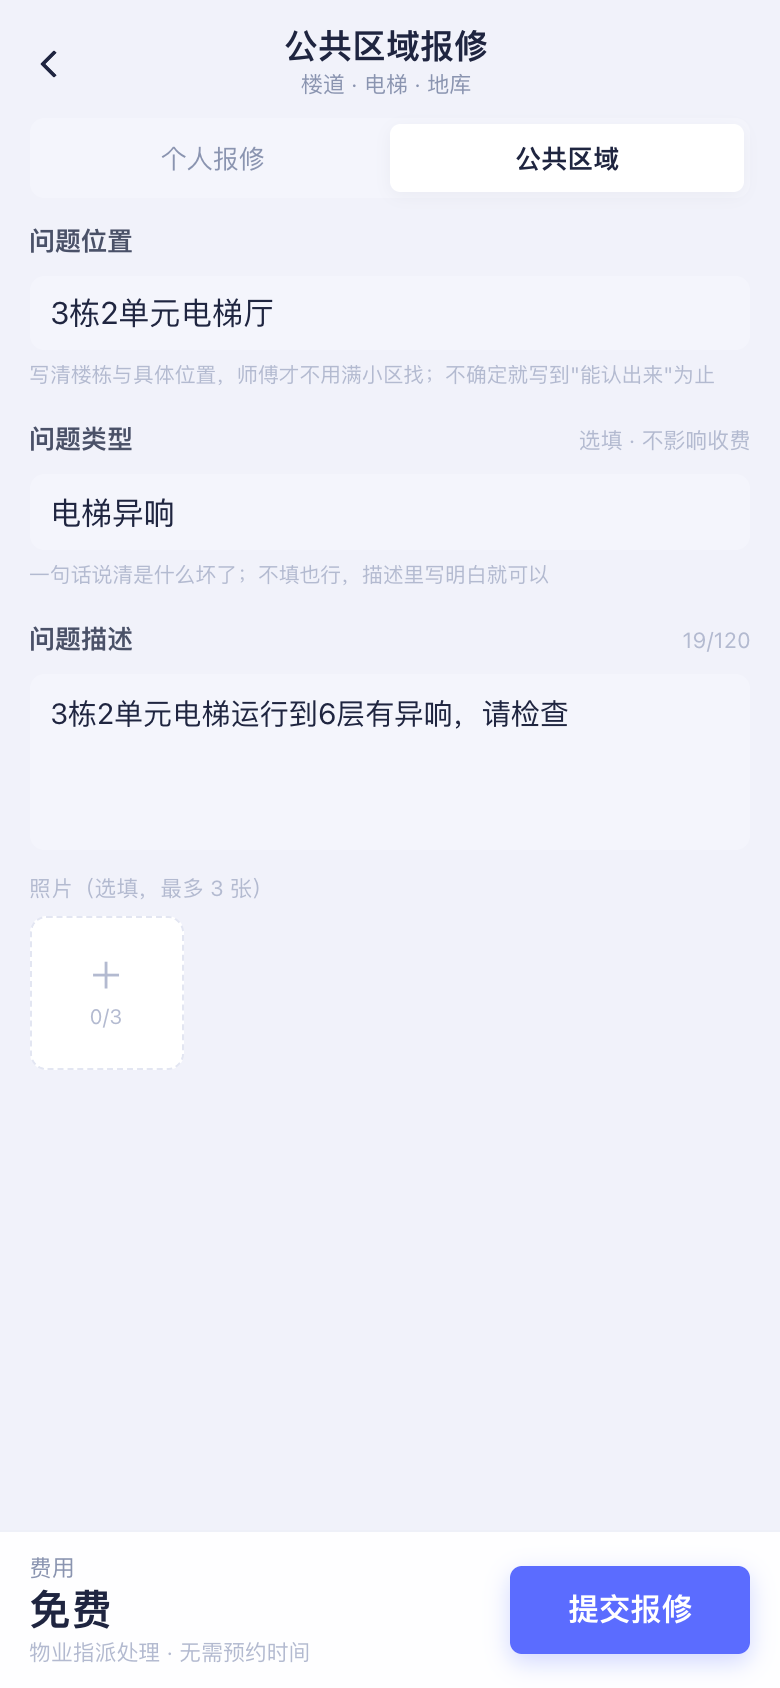
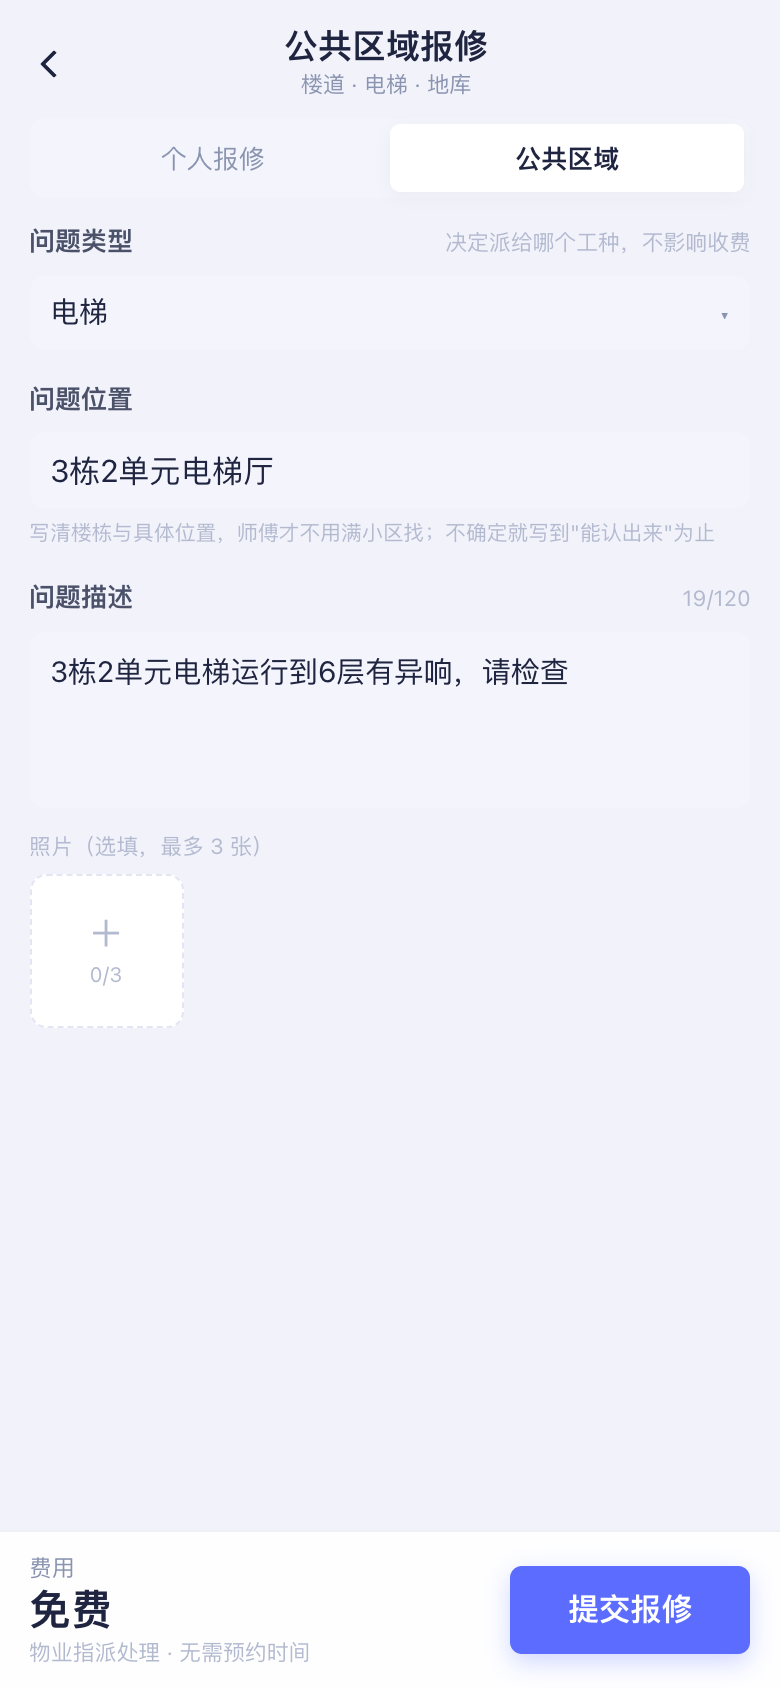
feat(报修): 公共报修的问题类型改下拉（固定 7 项 + 其他手写），位置排第二
上一轮把类型也改成了自由输入框，位置对了但类型错了：**问题类型是派单口径**，
后台 `LABOR_POINT_RULE.weights` 认的是那几个固定值，让业主白手写等于放弃它。
这一轮改成下拉，并把它放到第一位。

字段顺序：**问题类型（下拉）→ 问题位置（输入）→ 问题描述 → 照片**

- 固定 7 项：电梯 / 配电 / 给排水 / 道闸门禁 / 公区照明 / 门窗五金 / 土建 ——
  与后台权重键一一对应，点一下就是标准值；
- 第 8 项「其他（自己写）」→ 展开一个输入框，传业主写的原文，前台受理时归类；
- 类型必选（选「其他」时必须写），未选时提交按钮禁用；
- 位置仍是输入框：空间描述没有边界，列 10 个永远不够。

**服务端不跟着做白名单**：后台代下单、老版本客户端都可能传任意文本，拒掉只会让一笔
真实报修进不来。只保留三条校验（≤20 字 / 空值落「公共设备」/ 不查白名单），
非标准值的影响是 `laborPointWeight()` 落默认 1.0 —— 比丢单好。

顺手改了一处：选「其他」时下拉行与手写框原本显示同一句话，截图里像两个字段；
现在下拉行显示「其他（自己写）」，正文只出现在输入框里。

另：`v-else` 配对问题 ——「个人报修项目」段原来靠 `v-else` 挂在「部位」段后面，
类型段前移之后它会配到「位置」段上（那段不是 v-if），构建直接报错。改成 `v-if="!isPublic"`。

批次: 无
影响: 04-契约, 06-业主端小程序, 02-原型设计
验证: 04 test 287/287 · 06 check:data · build:h5 · smoke dev 101/101 + dist 101/101 · 公共线走查 14/14（api-g-47/47b/48/49）
BREAKING: 无

diff --git a/06-业主端小程序/src/pages/repair/create.vue b/06-业主端小程序/src/pages/repair/create.vue
@@ -2,18 +2,21 @@
   我要报修（个人 / 公共两条线）
   ------------------------------------------------------------
   个人：选房 → 价目项目（下单即见价）→ 1 小时时段 → 描述 + 照片 → 提交并支付
-  公共：位置 → 问题类型 → 描述 + 照片 → 提交（免费，不支付）
+  公共：问题类型（下拉）→ 位置 → 描述 + 照片 → 提交（免费，不支付）
 
   两条线**要的东西不一样**，2026-11-11 按实际数据与业务分了家：
     · 公共区域维修由物业出人出料，没有价目项 —— 不再让业主先挑一个收费项目再免费处理；
       也不要求预约时段（样例里 75 张公共单没有一张有预约时间）。
 
-  2026-11-12 又改了一次：**位置与类型都改成纯输入框**，取消快捷 chip。
-  原因不是"快捷不好看"，而是它把两件事锁死了：
-    · 位置固定 10 个 —— 小区里的角落远不止 10 个，业主找不到就只能编，写进「其它位置」
-      反而多一步；不如一进来就是一个空输入框。
-    · 类型固定 7 个「部位」—— 业主不是专业人士，不会把"电梯有异响"翻译成「电梯」。
-      让他自己写，前台受理时归类，这才是真实分工（归类本来就是物业的活）。
+  公共线的字段顺序与形态（2026-11-12 最终）：
+    **问题类型（下拉，固定 7 项 + 「其他」手写）→ 问题位置（输入）→ 描述 → 照片**
+
+  为什么类型做下拉、位置反而放开：
+    · 类型是**派单口径**（电梯 1.5 / 配电 1.3…，工时积分按它取权重），
+      所以给一列固定项，让业主点一下就能对上台后台的枚举；
+      列不进去的用「其他」自己写，不逼他硬塞进某个格子里。
+    · 位置是**空间描述**，小区角落无穷多，列 10 个永远不够 ——
+      固定列表在这里只会让业主先点「其它位置」再输一遍，比直接打字多一步。
 
   个人项目按分类折叠 + 搜索：现在只有 10 项，但项目是会加的，
   一次摊开几十项就没法选了。默认展开前 3 类，搜索时全部展开。
@@ -26,6 +29,27 @@
       <view class="seg">
         <view class="seg__i" :class="{ 'is-on': !isPublic }" @tap="setScope('personal')"><text>个人报修</text></view>
         <view class="seg__i" :class="{ 'is-on': isPublic }" @tap="setScope('public')"><text>公共区域</text></view>
+      </view>
+
+      <!-- 问题类型（公共）：固定下拉 + 「其他」手写 -->
+      <view v-if="isPublic" class="rc__sec">
+        <view class="rc__k-row">
+          <text class="rc__k">问题类型</text>
+          <text class="rc__k-d">决定派给哪个工种，不影响收费</text>
+        </view>
+        <view id="type-field" class="field__sel" @tap="typeSheet = true">
+          <text class="field__sel-t" :class="{ 'is-ph': !typeLabel }">{{ typeLabel || '请选择问题类型' }}</text>
+          <text class="field__sel-a">▾</text>
+        </view>
+        <input
+          v-if="typeIsOther"
+          id="issue-input"
+          v-model="issue"
+          class="field__input field__input--boxed rc__other-input"
+          maxlength="20"
+          placeholder="写一句是什么坏了，如「健身器材螺丝松动」"
+          placeholder-class="ph"
+        />
       </view>
 
       <!-- 位置 -->
@@ -50,25 +74,9 @@
         </template>
       </view>
 
-      <!-- 问题类型（公共）：自由填写，前台受理时归类 -->
-      <view v-if="isPublic" class="rc__sec">
-        <view class="rc__k-row">
-          <text class="rc__k">问题类型</text>
-          <text class="rc__k-d">选填 · 不影响收费</text>
-        </view>
-        <input
-          id="issue-input"
-          v-model="issue"
-          class="field__input field__input--boxed"
-          maxlength="20"
-          placeholder="例如：电梯异响 / 路灯不亮 / 地砖破损"
-          placeholder-class="ph"
-        />
-        <text class="rc__hint">一句话说清是什么坏了；不填也行，描述里写明白就可以</text>
-      </view>
-
-      <!-- 项目（个人）：分类折叠 + 搜索 -->
-      <view v-else class="rc__sec">
+      <!-- 项目（个人）：分类折叠 + 搜索。用 v-if 而不是 v-else ——
+           上一段是「位置」，它两种 scope 都要显示，不是 v-if，v-else 会配错 -->
+      <view v-if="!isPublic" class="rc__sec">
         <view class="rc__k-row">
           <text class="rc__k">报修项目</text>
           <text class="rc__k-d">下单即见价</text>
@@ -146,6 +154,14 @@
       </view>
     </view>
 
+    <ActionSheet
+      v-model:show="typeSheet"
+      title="问题类型"
+      sub="选一个，或选「其他」自己写"
+      :actions="typeActions"
+      @select="pickType"
+    />
+
     <Bar
       :label="isPublic ? '费用' : '合计'"
       :amount="isPublic ? '免费' : sel ? money(fee.total) : '¥0.00'"
@@ -165,6 +181,7 @@ import NavBar from '@/components/NavBar.vue'
 import Bar from '@/components/Bar.vue'
 import Empty from '@/components/Empty.vue'
 import PhotoPicker from '@/components/PhotoPicker.vue'
+import ActionSheet from '@/components/ActionSheet.vue'
 import { orderFee, priceGroups, priceItems } from '@/api/pricing'
 import { activeHouse, createOrder, createOrderPay } from '@/api/mp'
 import { DEMO } from '@/config/demo'
@@ -180,9 +197,21 @@ const photos = ref([])
 const day = ref(DEMO.today)
 const slot = ref('09:00-10:00')
 
-/* 公共报修：位置与问题类型都是自由填写（2026-11-12 取消快捷选项） */
-const place = ref('')
+/**
+ * 公共报修的**问题类型**：7 个固定项 + 「其他」手写。
+ *
+ * 这 7 个值必须与后台 `LABOR_POINT_RULE.weights` 的键一致（电梯 1.5 / 公共设备 1.4 /
+ * 配电 1.3 / 给排水 1.2 / 道闸门禁 1.2 / 土建 1.1 / 公区照明 1.0 / 门窗五金 1.0）——
+ * 对上了，派单与工时积分就能直接取到；对不上就落默认 1.0。
+ * 所以这里是**下拉而不是输入**：业主点一下，值就是标准值。
+ */
+const TYPE_OPTIONS = ['电梯', '配电', '给排水', '道闸门禁', '公区照明', '门窗五金', '土建']
+const TYPE_OTHER = '__other__'
+const typeSheet = ref(false)
+/* '' 表示还没选；选了「其他」之后的具体内容写在 issue 里 */
+const type = ref('')
 const issue = ref('')
+const place = ref('')
 
 /* 个人项目的折叠与搜索 */
 const kw = ref('')
@@ -190,6 +219,20 @@ const openCats = ref(new Set(groups.slice(0, 3).map(g => g.category)))
 
 const slots = ['09:00-10:00', '10:00-11:00', '11:00-12:00', '14:00-15:00', '15:00-16:00', '16:00-17:00', '19:00-20:00']
 const house = computed(() => activeHouse())
+
+const typeIsOther = computed(() => type.value === TYPE_OTHER)
+/**
+ * 下拉行只显示"选了哪一项"。
+ * 选「其他」时**不要**把业主写的话再显示一遍 —— 下面那个输入框已经在显示了，
+ * 两处同样的字看起来像两个字段，截图里一眼就能看出来（2026-11-12 修）。
+ */
+const typeLabel = computed(() => (typeIsOther.value ? '其他（自己写）' : type.value))
+/** 落库值：固定项用它自己，其他用业主写的那句话 */
+const categoryValue = computed(() => (typeIsOther.value ? issue.value.trim() : type.value))
+const typeActions = computed(() => [
+  ...TYPE_OPTIONS.map(t => ({ value: t, label: t, active: type.value === t })),
+  { value: TYPE_OTHER, label: '其他（自己写）', desc: '列表里没有合适的类型', active: typeIsOther.value }
+])
 /* priceItems() 而不是常量：接口模式下价目来自服务端快照，模块加载时还是空的 */
 const sel = computed(() => priceItems().find(i => i.code === code.value) || null)
 const fee = computed(() => orderFee(sel.value, 1))
@@ -205,7 +248,7 @@ const shownGroups = computed(() => {
 const isOpen = cat => (kw.value.trim() ? true : openCats.value.has(cat))
 
 const canSubmit = computed(() => {
-  if (isPublic.value) return !!place.value.trim() && !!desc.value.trim()
+  if (isPublic.value) return !!categoryValue.value && !!place.value.trim() && !!desc.value.trim()
   return !!sel.value && !!house.value
 })
 const days = computed(() => {
@@ -230,6 +273,11 @@ function setScope(s) {
   code.value = ''
 }
 
+function pickType(v) {
+  type.value = v
+  if (v !== TYPE_OTHER) issue.value = ''
+}
+
 function toggleCat(cat) {
   if (kw.value.trim()) return
   const next = new Set(openCats.value)
@@ -244,15 +292,17 @@ function pick(it) {
 
 async function submit() {
   if (isPublic.value) {
+    if (!type.value) return toastErr('先选一个问题类型')
+    if (typeIsOther.value && !issue.value.trim()) return toastErr('选了「其他」，请写一句是什么坏了')
     if (!place.value.trim()) return toastErr('请填写问题位置')
     if (!desc.value.trim()) return toastErr('写一句问题描述，师傅好带工具')
     try {
       const wo = await createOrder({
         scope: 'public',
         place: place.value.trim(),
-        /* 业主自己写的类型原文，前台受理时归类；不填按「公共设备」——
-           不再让业主义务把"电梯有异响"翻译成「电梯」 */
-        category: issue.value.trim() || '公共设备',
+        /* 固定项 = 后台枚举值（派单与积分权重能直接取到）；
+           「其他」= 业主写的原文，前台受理时归类 */
+        category: categoryValue.value,
         description: desc.value.trim(),
         photos: photos.value.map(p => ({ kind: p.kind, at: p.at, note: p.note || '' }))
       })
@@ -297,8 +347,15 @@ async function submit() {
 .rc__k-row { display: flex; align-items: baseline; justify-content: space-between; margin-bottom: 14rpx; }
 .rc__k-row .rc__k { margin-bottom: 0; }
 .rc__k-d { font-size: 21rpx; color: var(--biz-text-4); }
-/* 输入框下方的一句提示（位置 / 问题类型两处共用） */
+/* 输入框下方的一句提示（位置处用） */
 .rc__hint { display: block; margin-top: 10rpx; font-size: 20rpx; line-height: 1.5; color: var(--biz-text-4); }
+
+/* 下拉字段：外观与 .field__input--boxed 一致，只是右侧多一个箭头 */
+.field__sel { display: flex; align-items: center; justify-content: space-between; height: 72rpx; padding: 0 20rpx; border-radius: 14rpx; background: var(--biz-bg-fill); }
+.field__sel-t { font-size: 28rpx; color: var(--biz-text-1); }
+.field__sel-t.is-ph { color: var(--biz-text-4); }
+.field__sel-a { font-size: 22rpx; color: var(--biz-text-3); }
+.rc__other-input { margin-top: 12rpx; }
 .rc__search { margin-bottom: 14rpx; }
 .rc__group + .rc__group { margin-top: 6rpx; }
 .rc__group-hd { display: flex; align-items: center; gap: 12rpx; padding: 16rpx 4rpx; border-bottom: 1rpx solid var(--biz-border-light); }

diff --git a/04-契约/README.md b/04-契约/README.md
@@ -951,20 +951,22 @@ VITE_API_MODE=http VITE_API_BASE=http://127.0.0.1:4010 npx vite --port 5175
 
 **`category` 的语义在 2026-11-12 又改了一次：从「部位枚举」改成「业主写的原文」。**
 
-上一版要求业主端给一行 7 个「部位」chip（电梯 / 配电 / 给排水…），理由是它决定
-派给谁、也算工时积分权重（电梯 1.5 / 配电 1.3 / 土建 1.1）。实际用下来是反的：
-**部位是派单口径，不是业主的语言** —— 业主不会把"电梯运行到 6 层会顿一下"翻译成「电梯」，
-勉强选一个只会得到一个假分类，而假分类比没分类更难纠正。
+改了两轮才定下来：
 
-所以现在：业主端两个输入框（位置、问题类型），`category` 存原文；**归类是前台受理的活**。
+1. 先要求业主端给一行 7 个「部位」chip —— 太硬，业主不会把"电梯运行到 6 层会顿一下"
+   翻译成「电梯」；
+2. 再改成让业主自由输入 —— 位置对了，但**类型让业主白写等于放弃派单口径**；
+3. **最终：端上做下拉（7 个固定项 + 「其他」手写），服务端仍按自由文本收。**
 
-代价要写清，不能装作没有：
+固定项与 `LABOR_POINT_RULE.weights` 的键一一对应（电梯 1.5 / 公共设备 1.4 / 配电 1.3 /
+给排水与道闸门禁 1.2 / 土建 1.1 / 公区照明与门窗五金 1.0），点一下就是标准值；
+列不进去的用「其他」写原文，前台受理时归类。
 
-- `category` 不是标准部位时，`laborPointWeight()` 取不到，落默认 **1.0**；
-- 传标准部位仍然有效（那种情况权重能直接取到）；
-- 后台改分类是改一个字符串，不用迁移。
+服务端为什么**不跟着做白名单**：后台代下单、老版本客户端都可能传别的值，
+拒掉只会让一笔真实报修进不来。代价是 `laborPointWeight()` 取不到就落默认 **1.0** ——
+这是可接受的，比丢掉一张单好。
 
-校验只剩三条：长度 ≤20、空值落「公共设备」、**不做白名单**。
+校验只有三条：长度 ≤20、空值落「公共设备」、**不做白名单**。
 
 服务端同步改了两处容易漏的：
 
